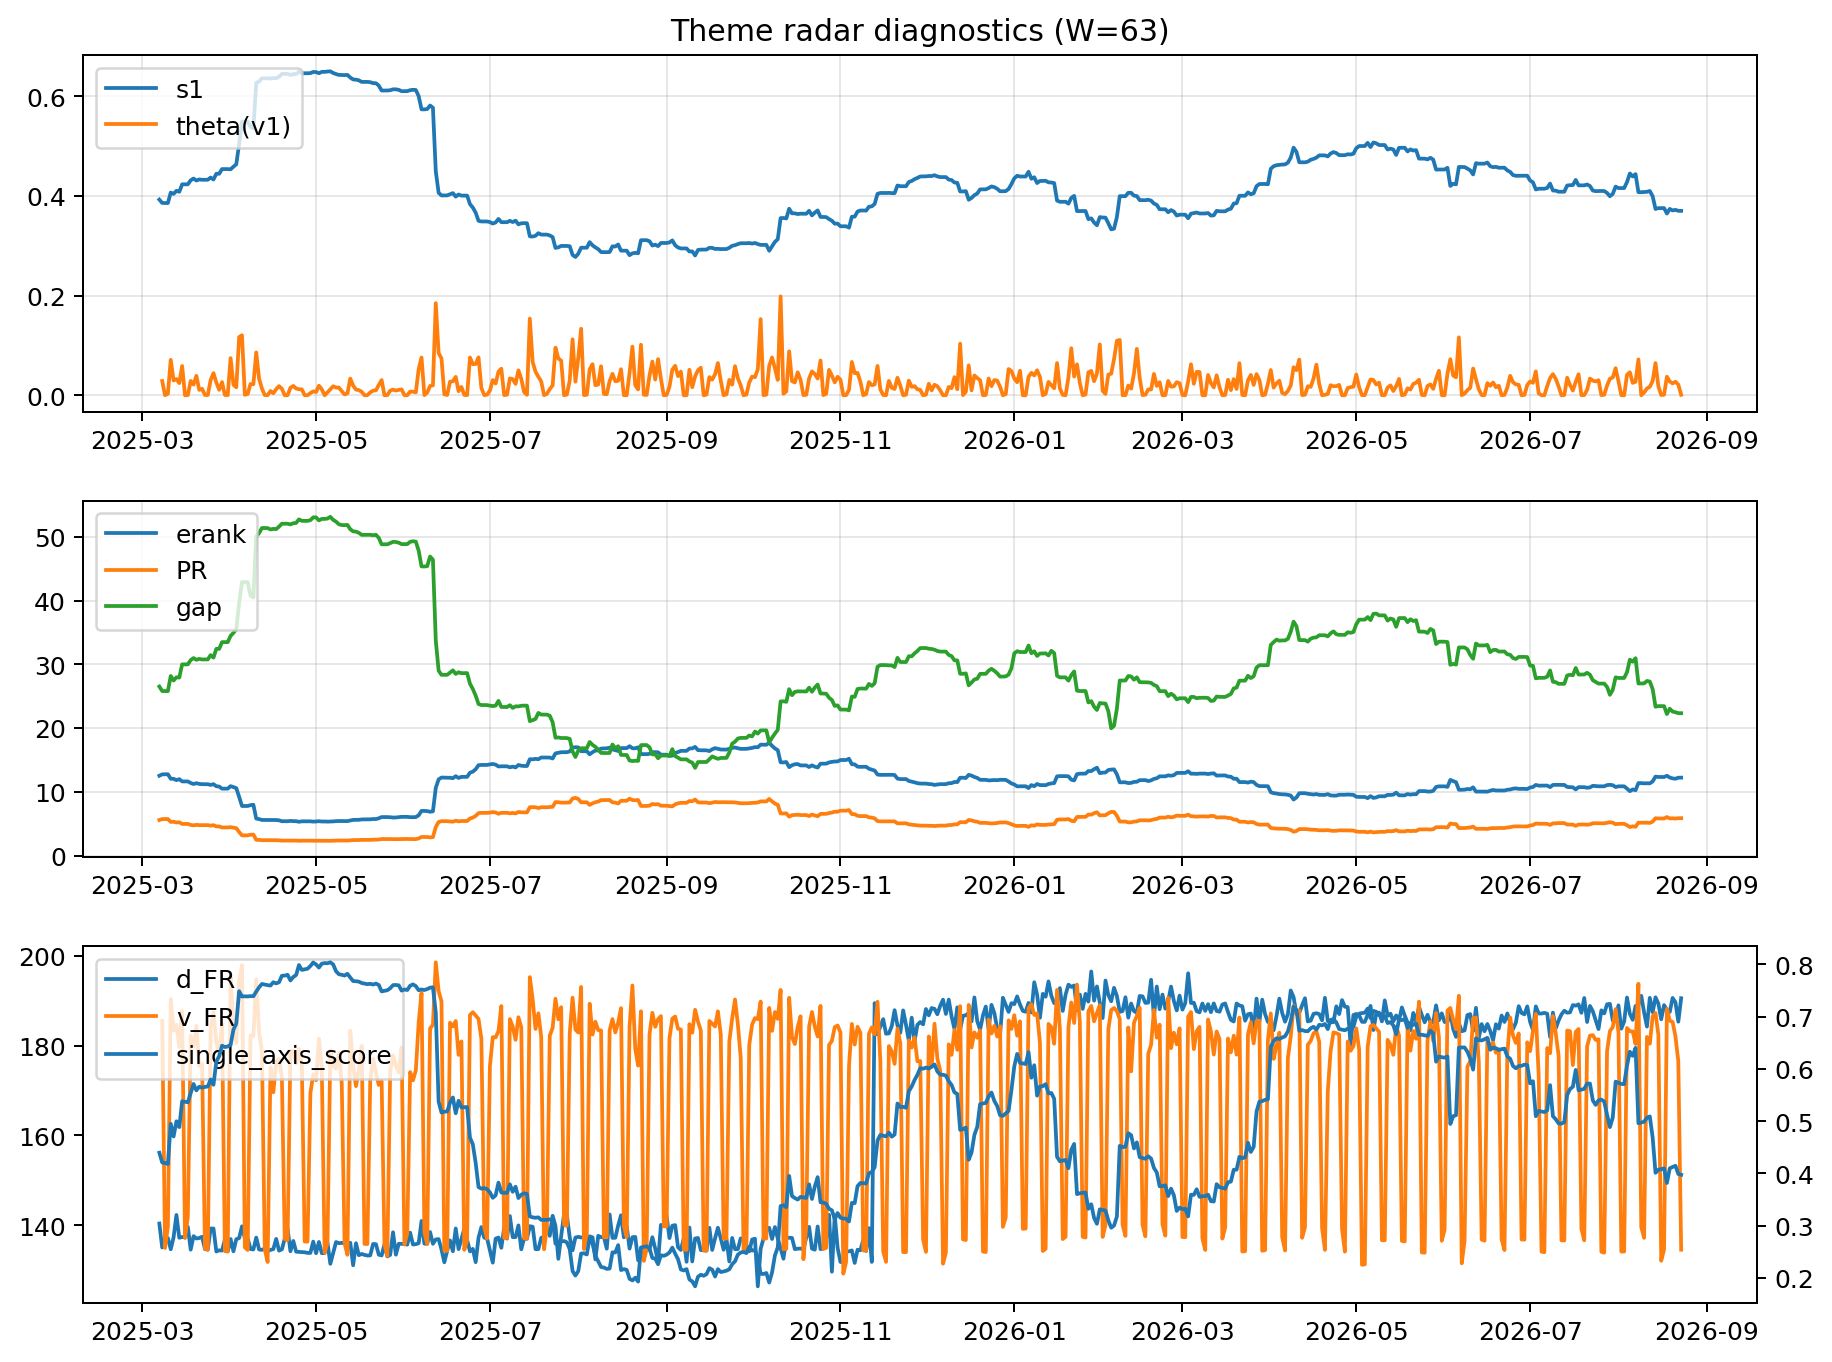
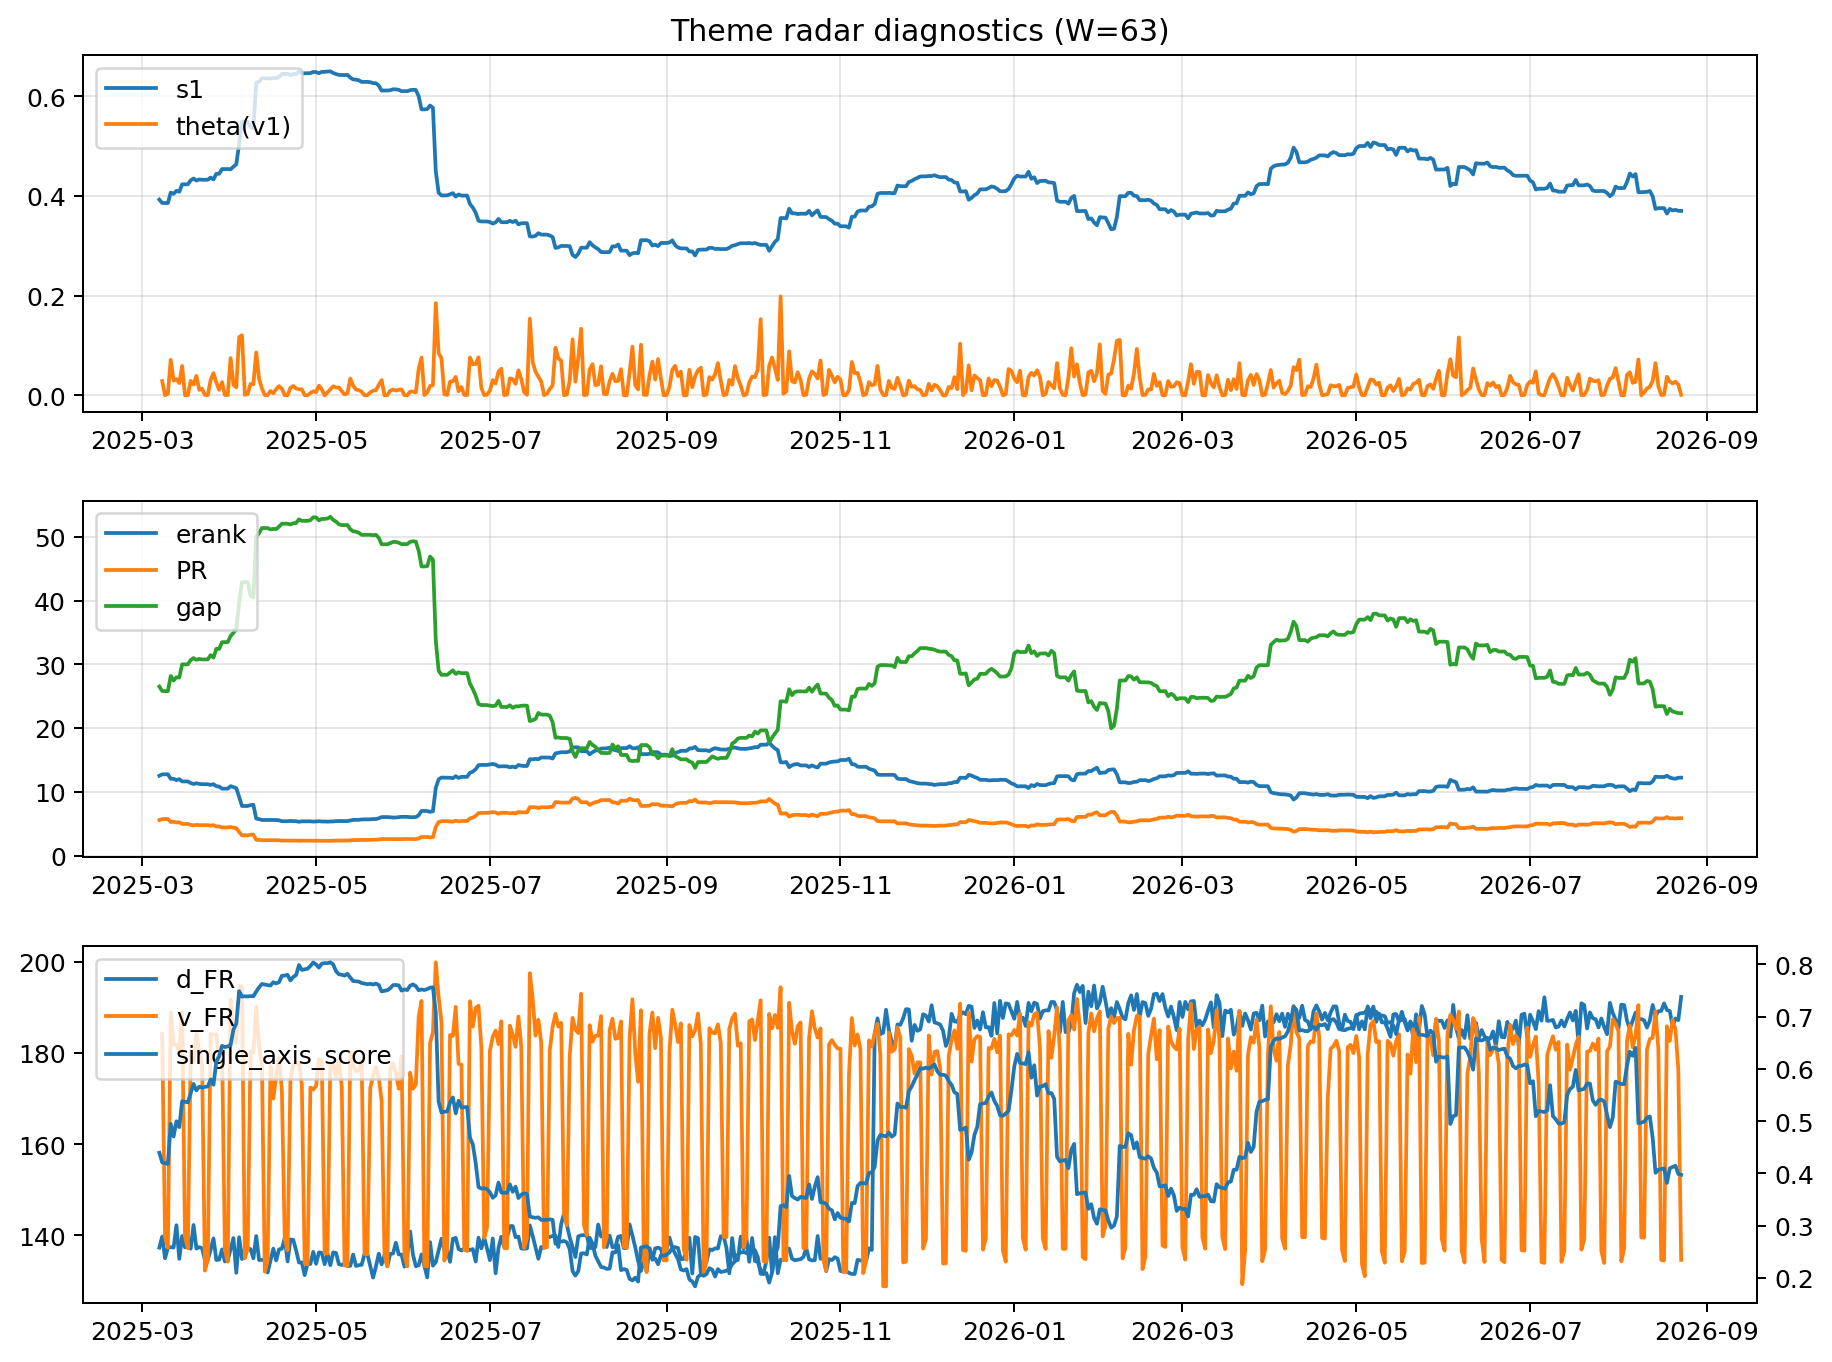
log: 2026-08-23 | sha256:666e03a5632d280ab05f843d0fb46bc03da5682553c1a96ce1c96c262022851f

diff --git a/logs/2026-08-23.md b/logs/2026-08-23.md
@@ -3,43 +3,43 @@
 ![diagnostic W63](../assets/diagnostic/2026-08-23_W63.png)
 
 ## Leaders (v1) — W=63
-- **Nuclear_Uranium** (0.0920706250976419)
-- Semis (0.0749271070913939)
-- Quantum (0.0644601030714336)
+- **Nuclear_Uranium** (0.0920706209997453)
+- Semis (0.0749271071169183)
+- Quantum (0.0644600978395696)
 
 ## Challengers — W=63
-**v2:** Rates (0.088339958312246), Semis (0.0730156131657174), Software_Cloud (0.0719281687976393)
-**v3:** Metals (0.101485583238003), Crypto (0.0971215566798409), Genomics_Bio (0.0792645424327178)
+**v2:** Rates (0.0883396513019455), Semis (0.0730156432991559), Software_Cloud (0.0719281853855479)
+**v3:** Metals (0.1014855653302786), Crypto (0.0971215721690182), Genomics_Bio (0.0792645421211905)
 
 ## Migration (20D slope) — W=63
 **Top risers:**
-- axis_Quantum: 0.0005488326564878
-- axis_Semis: 0.0004774657809904
-- axis_Space: 0.0003539900537213
-- axis_Nuclear_Uranium: 0.0003419548159447
-- axis_Grid_Power: 0.0002960815680292
-- axis_Clean_Broad: 0.0002143583261935
-- axis_Robotics: 0.0002115194208474
-- axis_Sector_Health: 0.0001714833994167
-- axis_Commodities: 0.0001683580107626
-- axis_Equity_US: 0.0001638118789065
+- axis_Quantum: 0.0005488326660565
+- axis_Semis: 0.0004774658586803
+- axis_Space: 0.0003539898299627
+- axis_Nuclear_Uranium: 0.0003419549631651
+- axis_Grid_Power: 0.0002960816278053
+- axis_Clean_Broad: 0.0002143583939835
+- axis_Robotics: 0.0002115194597247
+- axis_Sector_Health: 0.0001714833849188
+- axis_Commodities: 0.0001683581993012
+- axis_Equity_US: 0.0001638119833827
 
 **Top fallers:**
-- axis_Genomics_Bio: -0.0001662322470865
-- axis_Sector_Materials: -0.0001727808514798
-- axis_Sector_Comm: -0.0001768365659067
-- axis_Credit: -0.0001795192939761
-- axis_MegaCap_AI: -0.0002842997006844
-- axis_Cyber: -0.0003088632443818
-- axis_Software_Cloud: -0.0003728416574966
-- axis_Metals: -0.000408772205171
-- axis_Crypto: -0.0004601240603387
-- axis_Rates: -0.0006818317323395
+- axis_Genomics_Bio: -0.0001662318013503
+- axis_Sector_Materials: -0.0001727807469866
+- axis_Sector_Comm: -0.0001768365658577
+- axis_Credit: -0.0001795192552336
+- axis_MegaCap_AI: -0.0002842994811386
+- axis_Cyber: -0.0003088631275606
+- axis_Software_Cloud: -0.0003728414338915
+- axis_Metals: -0.0004087721741917
+- axis_Crypto: -0.0004601240234141
+- axis_Rates: -0.000681834071159
 
 ## Risk line (W=63)
-- s1: 0.3699836995851595
-- theta_v1: 0.0010631155530075
-- v_FR: 134.5913325391176
+- s1: 0.3699837085153885
+- theta_v1: 0.001063115487007
+- v_FR: 134.64386096582112
 - single_axis_score: 0.3973831775700934
 
 ## Interpretation
@@ -51,4 +51,4 @@
 - Percentiles (W=63 history): vfr_pct=0.10, theta_pct=0.21, s1_pct=0.31, score_pct=0.34.
 
 ---
[2 lines of base64/hex data omitted]
